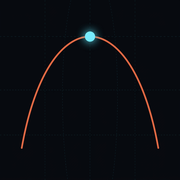
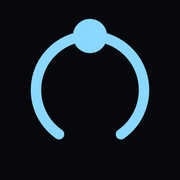
Give APOGEE a sibling mark to FREQ and IRIS
An open ice orbit with the body at apogee, same two-color language as the other apps.

Changed region(s): [[0.1111, 0.0833, 0.8889, 0.8333]]

diff --git a/index.html b/index.html
@@ -11,10 +11,10 @@
       content="Live space range control. Made by Mobin.A — مرکز کنترل زنده پرتابهای فضایی. ساخته شده توسط مبین.آ"
     />
     <meta property="og:title" content="APOGEE · Mobin.A" />
-    <meta property="og:image" content="./assets/icon.png" />
-    <link rel="icon" type="image/png" sizes="512x512" href="./assets/icon-512.png" />
-    <link rel="icon" type="image/png" sizes="192x192" href="./assets/icon-192.png" />
-    <link rel="apple-touch-icon" sizes="180x180" href="./assets/icon-180.png" />
+    <meta property="og:image" content="./assets/icon.png?v=2" />
+    <link rel="icon" type="image/png" sizes="512x512" href="./assets/icon-512.png?v=2" />
+    <link rel="icon" type="image/png" sizes="192x192" href="./assets/icon-192.png?v=2" />
+    <link rel="apple-touch-icon" sizes="180x180" href="./assets/icon-180.png?v=2" />
     <link rel="manifest" href="./manifest.webmanifest" />
     <meta name="mobile-web-app-capable" content="yes" />
     <meta name="apple-mobile-web-app-capable" content="yes" />
@@ -26,7 +26,7 @@
       href="https://fonts.googleapis.com/css2?family=IBM+Plex+Mono:wght@400;500;600&family=Syne:wght@700;800&family=Vazirmatn:wght@300;400;500;600;700;800&display=swap"
       rel="stylesheet"
     />
-    <link rel="stylesheet" href="./styles.css" />
+    <link rel="stylesheet" href="./styles.css?v=2" />
   </head>
   <body>
     <div id="app">
@@ -38,7 +38,7 @@
 
       <header class="hud-top">
         <button class="brand" id="about-btn" type="button">
-          <img class="mark-img" src="./assets/icon.png" width="36" height="36" alt="APOGEE" />
+          <img class="mark-img" src="./assets/icon.png?v=2" width="36" height="36" alt="APOGEE" />
           <div>
             <div class="word" dir="ltr">APOGEE</div>
             <div class="tag" data-i18n="brandTag">اوج · مرکز کنترل زنده</div>
@@ -185,7 +185,7 @@
 
     <div id="about" class="about" hidden>
       <div class="about-card">
-        <img src="./assets/icon.png" width="88" height="88" alt="APOGEE" />
+        <img src="./assets/icon.png?v=2" width="88" height="88" alt="APOGEE" />
         <div class="word" dir="ltr">APOGEE</div>
         <h3 data-i18n="aboutTitle">درباره سازنده</h3>
         <p class="about-body" data-i18n="aboutBody">
@@ -202,7 +202,7 @@
     </div>
 
     <div id="loader">
-      <img class="load-icon" src="./assets/icon.png" width="92" height="92" alt="" />
+      <img class="load-icon" src="./assets/icon.png?v=2" width="92" height="92" alt="" />
       <div class="load-word" dir="ltr">APOGEE</div>
       <div class="load-fa" data-i18n="loadFa">اوج</div>
       <div class="load-sub" id="load-sub" data-i18n="loadSub">در حال قفلکردن برد…</div>

diff --git a/styles.css b/styles.css
@@ -89,8 +89,7 @@ img { max-width: 100%; }
 .brand:hover .word { color: var(--flame-2); }
 .mark, .mark-img {
   width: 36px; height: 36px; color: var(--flame);
-  border-radius: 10px;
-  box-shadow: 0 0 0 1px var(--stroke);
+  border-radius: 999px;
 }
 .word {
   font-family: var(--display);
